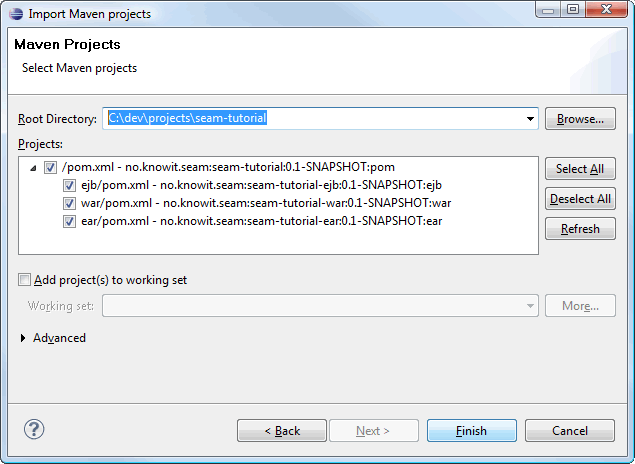
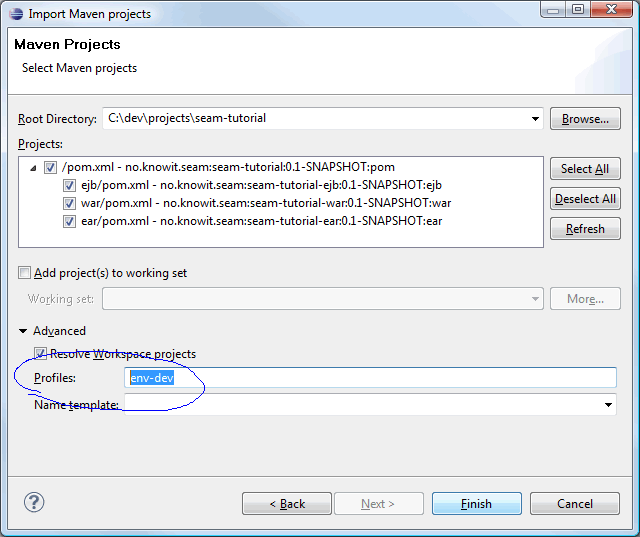
Updated Eclipse tutorial

Changed region(s): [[0.0, 0.0, 1.0, 0.7845], [0.0, 0.875, 1.0, 1.0], [0.9276, 0.7241, 0.9575, 0.7543]]

diff --git a/doc/tutorial/02-eclipse.html b/doc/tutorial/02-eclipse.html
@@ -364,7 +364,8 @@ in the project and provides a hierarchical list of them.</p>
       style="width:500px;" />
   </li>
   <li>
-    Browse to the directory where the project is located, select it, verify that all modules are checked 
+    Browse to the directory where the project is located, select it, verify that all modules are checked,
+    add <code><strong>env-dev</strong></code> to the <strong>Profiles</strong> field
     and click <strong>Finish</strong>.
     <img src="img/eclipse-import-maven-02.png" longdesc="img/eclipse-import-maven-02.png" 
       class="screenshot" style="width:500px" />
@@ -383,24 +384,6 @@ in the project and provides a hierarchical list of them.</p>
     the project templates "root" POM - so you don't need to worry about this error. For further details see: 
     <a href="https://issues.sonatype.org/browse/MNGECLIPSE-1541">MNGECLIPSE-1541</a> and 
     <a href="https://issues.sonatype.org/browse/MNGECLIPSE-2145">MNGECLIPSE-2145</a>.
-   </li>
-  <li>
-    If du haven't activated development mode (<code>env-prod</code> is active by default) then set 
-    the <code>env-dev</code> profile on the parent project:<br/>
-    
-    <div class="inline-block" style="width:33%;">
-      <img src="img/eclipse-import-10.png" longdesc="img/eclipse-import-10.png" 
-        class="screenshot" style="width:100%;" />
-    </div>
-    <div class="inline-block" style="width:43.4%;">
-      <img src="img/eclipse-import-11.png" longdesc="img/eclipse-import-11.png" 
-        class="screenshot" style="width:100%; margin-bottom:.3em;" />
-    </div>
-  </li>
-   <li>
-    Run Maven install.
-    <img src="img/eclipse-import-maven-09.png" longdesc="img/eclipse-import-maven-09.png" 
-      class="screenshot" style="width:500px;" />
   </li>
   <li>
     Fix annoyances.<br/>
@@ -448,7 +431,11 @@ in the project and provides a hierarchical list of them.</p>
         class="screenshot" style="width:100%; margin-bottom:.3em;" />
       Must reference seam-tutorial-ejb.<strong>jar</strong>
     </div>
-
+  </li>
+  <li>
+    Run Maven install.
+    <img src="img/eclipse-import-maven-09.png" longdesc="img/eclipse-import-maven-09.png" 
+      class="screenshot" style="width:500px;" />
   </li>
 </ol>
 
